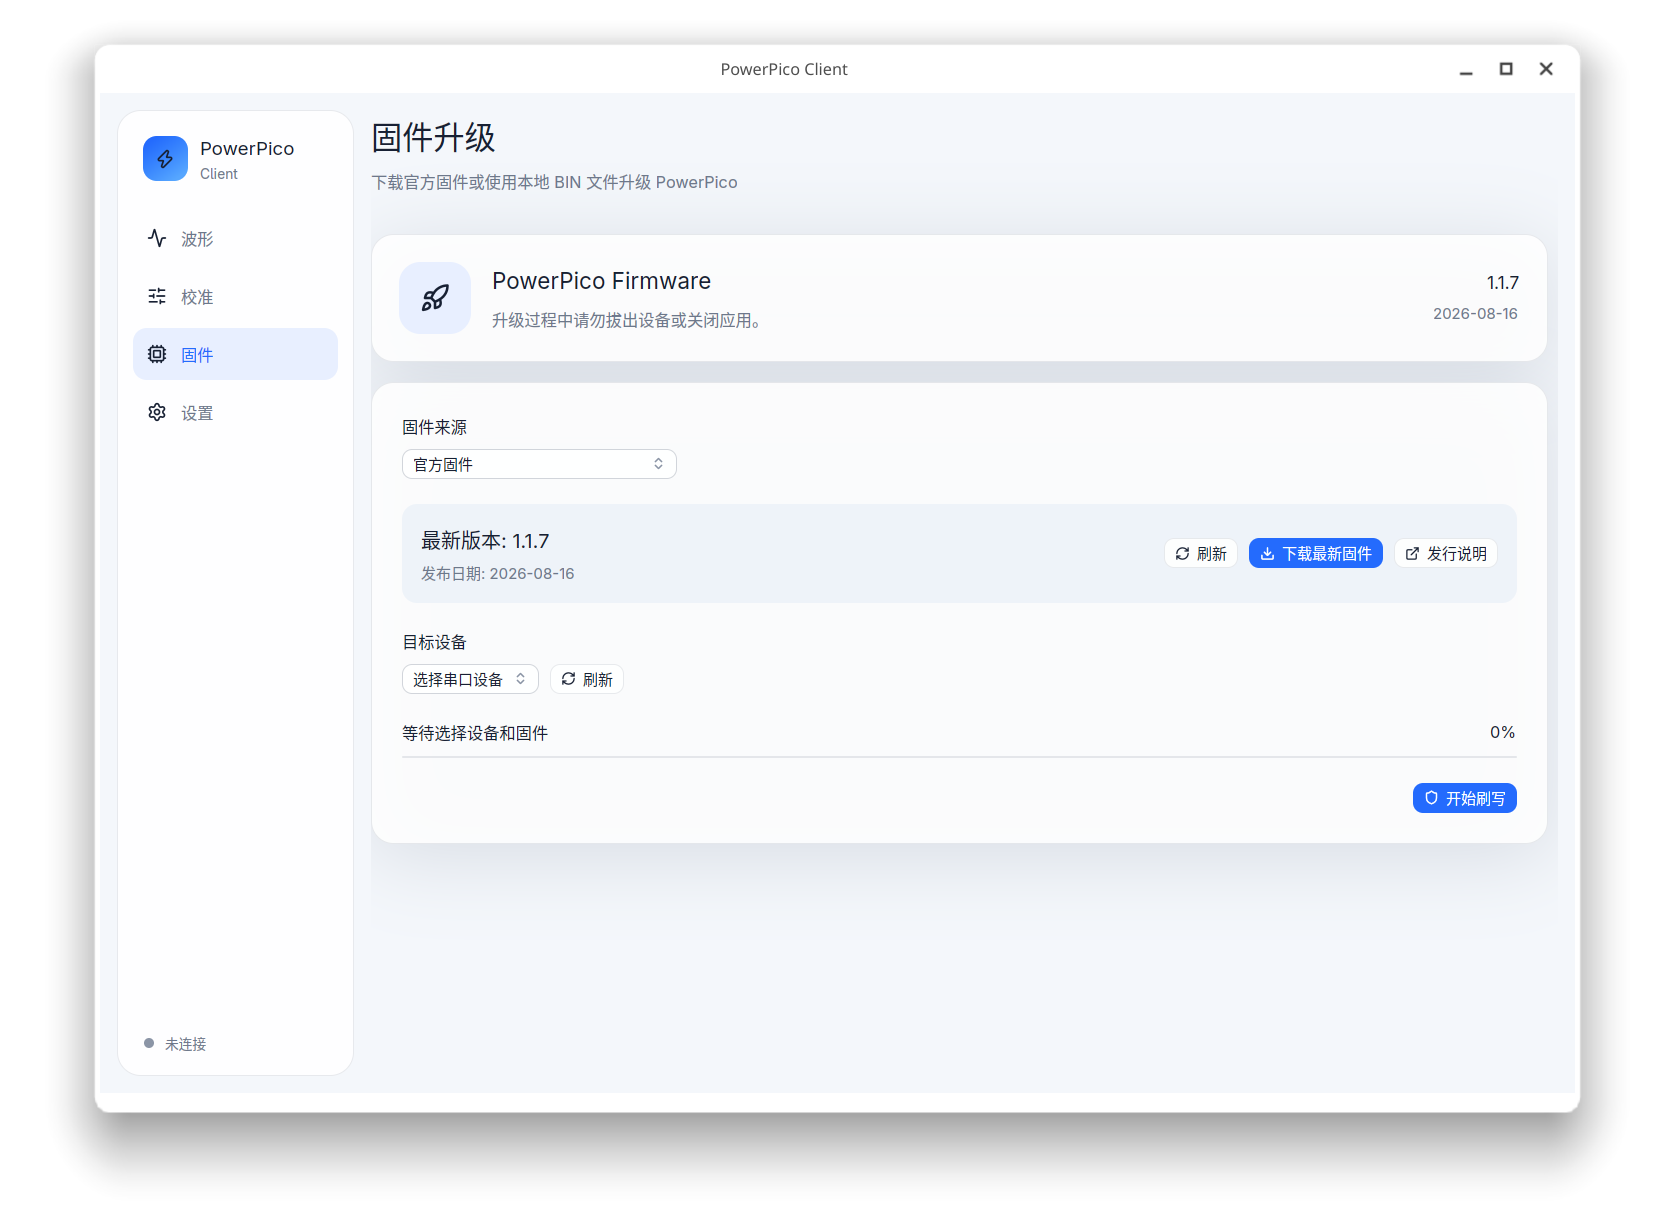
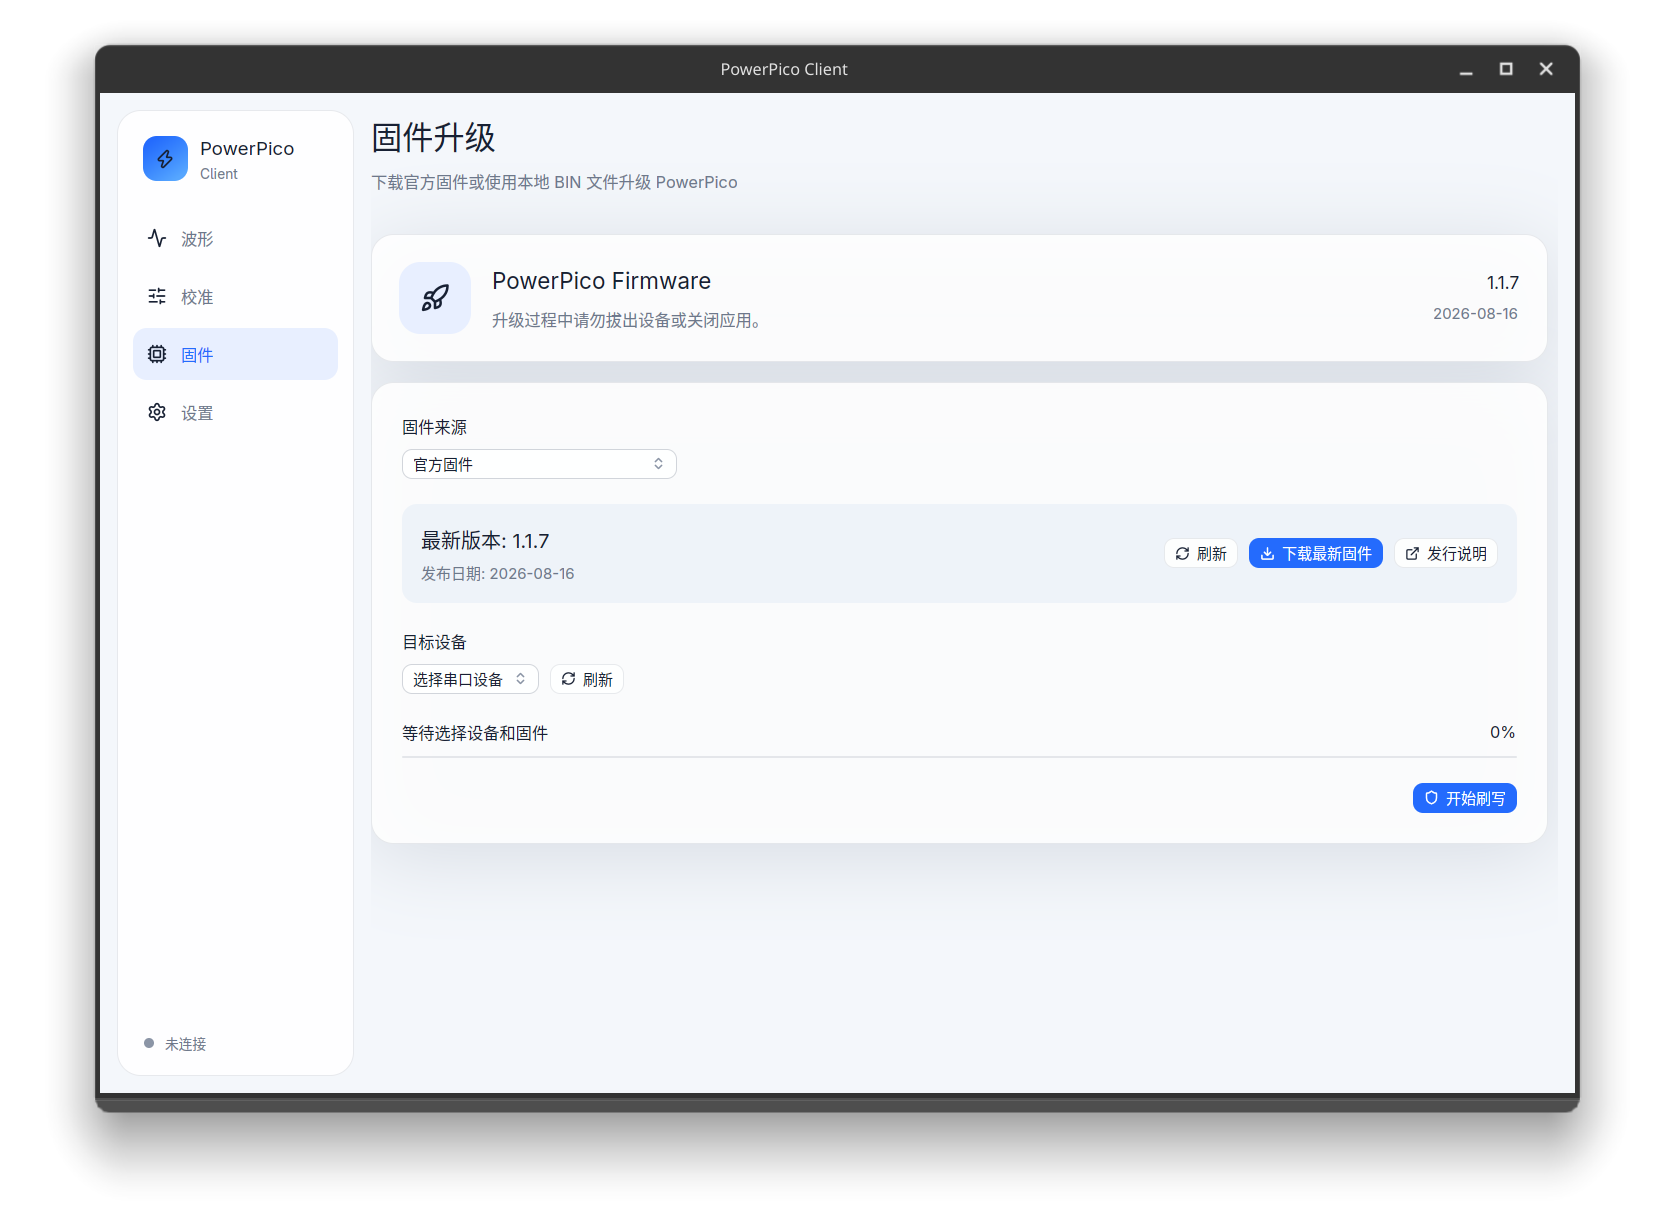
chore(release): prepare v0.4.0
- refresh the README screenshots with the light palette (waveform with live
  capture, calibration and firmware pages) and drop the archived Tauri-era
  captures
- remove the remaining Tauri 2 wording; the client is described as what it is
- the Linux column of the support matrix is fully checked now that firmware
  flashing finished real-device acceptance
- bump the workspace to 0.4.0 and write the release notes for the tag

Changed region(s): [[0.031, 0.0311, 0.9624, 0.9344]]

diff --git a/README.md b/README.md
@@ -2,7 +2,7 @@
   <h1 align="center">PowerPico Client</h1>
   <p align="center">面向 PowerPico 的跨平台数据采集、波形分析、校准与固件升级客户端</p>
 
-  <a href="https://github.com/No-Chicken/PowerPicoClient_rs/releases/latest"><img src="https://img.shields.io/badge/Version-0.3.0-blue" alt="Version 0.3.0"></a>
+  <a href="https://github.com/No-Chicken/PowerPicoClient_rs/releases/latest"><img src="https://img.shields.io/badge/Version-0.4.0-blue" alt="Version 0.4.0"></a>
   <a href="./LICENSE"><img src="https://img.shields.io/badge/License-GPLv3-green" alt="GPLv3"></a>
   <img src="https://img.shields.io/badge/GPUI-Rust-DEA584" alt="GPUI">
   <img src="https://img.shields.io/badge/UI-GPUI%20Kit%20%2B%20Ely-246bfd" alt="GPUI Kit and Ely">
@@ -17,7 +17,7 @@
 
 **PowerPico Client** 是使用 Rust 与 [GPUI](https://www.gpui.rs) 实现的 PowerPico 桌面客户端，界面由 [GPUI Kit](https://github.com/longbridge/gpui-kit) 与 [Ely GPUI Component](https://github.com/ELY-Open-Source/Ely-GPUI-Components) 构建，提供高速数据采集、实时波形、精确区间分析、记录导入导出、三档校准、固件升级、缓存管理和客户端更新检查能力。
 
-`GPUI` 分支已把 Tauri 2 + Svelte 前端替换为纯 Rust 实现，渲染走 GPU。迁移细节见 [从 Tauri 到 GPUI](./docs/gpui-migration.md)。
+整个客户端为纯 Rust 实现，GPU 渲染。架构与迁移记录见 [GPUI 迁移说明](./docs/gpui-migration.md)。
 
 <p align="center">
   <a href="https://github.com/No-Chicken/Power-Pico">Power-Pico 主项目</a> |
@@ -58,9 +58,9 @@
 
 请从 [GitHub Releases](https://github.com/No-Chicken/PowerPicoClient_rs/releases/latest) 下载对应平台的安装包，并使用同一 Release 中的 `SHA256SUMS` 校验文件完整性。
 
-> 现有 Release 仍由 Tauri 版本构建。GPUI 版本的流水线只在推送 `vX.Y.Z` tag 时运行，从下个版本起
-> 在同一台 Ubuntu runner 上产出 Linux x86_64 压缩包与 Windows x86_64 便携 ZIP（交叉编译）；
-> DEB/AppImage 与 DMG 仍在补齐，见 [构建与运行](./docs/build.md#打包与发布)。
+> 从 v0.4.0 起，流水线在同一台 Ubuntu runner 上构建两个产物：Linux x86_64 压缩包与 Windows x86_64
+> 便携 ZIP（交叉编译，C 运行时静态链接，免装 VC++ 运行库）；DEB/AppImage 与 DMG 仍在补齐，
+> 见 [构建与运行](./docs/build.md#打包与发布)。
 
 ---
 
@@ -72,12 +72,12 @@
 | :--- | :---: | :---: | :---: |
 | 数据采集与波形 | ✅ | ✅（Arch Linux 真机） | ✅ |
 | 记录导入导出 | ✅ | ✅ | ✅ |
-| 设备固件升级 | ✅ | ⚠ 待真机验收 | ✅ |
+| 设备固件升级 | ✅ | ✅（Arch Linux 真机） | ✅ |
 | 三档校准 | ✅ | ✅（Arch Linux 真机） | ✅ |
 | 缓存管理 | ✅ | ✅ | ✅ |
 | 客户端更新检查 | ⚠ 打开 Releases 页面 | ⚠ 打开 Releases 页面 | ⚠ 打开 Releases 页面 |
 
-旧版 Tauri 构建的验收记录仍可作为参考：[校准功能与测试记录](./docs/calibration-testing.md)。GPUI 版本已在 Arch Linux / KDE Wayland 的 AMD 显卡、macOS 与 Windows 上完成实时采集、区间分析、记录导入导出、校准串口释放与固件升级检查；逐项清单见 [Linux 测试清单](./docs/linux-testing.md)，其他平台只需替换串口节点与数据目录。
+GPUI 版本已在 Arch Linux / KDE Wayland 的 AMD 显卡、macOS 与 Windows 上完成实时采集、区间分析、记录导入导出、校准串口释放与固件升级检查；逐项清单见 [Linux 测试清单](./docs/linux-testing.md)，其他平台只需替换串口节点与数据目录。
 
 ---
 
@@ -134,7 +134,7 @@ npx skills add longbridge/gpui-kit
 
 ## 📂 数据与网络
 
-设置和官方固件保存在系统应用数据目录，临时采集记录保存在应用缓存目录，日志保存在平台日志目录（与旧版路径一致）。官方固件信息来自 PowerPico 固件服务，客户端更新信息来自本仓库 GitHub Releases。
+设置和官方固件保存在系统应用数据目录，临时采集记录保存在应用缓存目录，日志保存在平台日志目录。官方固件信息来自 PowerPico 固件服务，客户端更新信息来自本仓库 GitHub Releases。
 
 ---
 

diff --git a/.github/release-notes/v0.4.0.md b/.github/release-notes/v0.4.0.md
@@ -1,0 +1,30 @@
+# PowerPico Client v0.4.0
+
+GPUI 重构版的第一个跨平台发布。
+
+## 主要更新
+
+- 界面整体迁移到 GPUI：`powerpico-core` 负责设备、采集、存储、校准、固件与网络，`powerpico-app` 用 GPUI Kit 与 Ely 组件绘制全部四个页面，渲染走 GPU。
+- 保留旧版客户端的数据目录与记录格式：升级后原有设置、已下载的官方固件和 `.bin` 采集记录继续可用。
+- Linux 与 Windows 产物由同一台 Ubuntu runner 构建：Linux x86_64 压缩包，Windows x86_64 便携 ZIP（交叉编译）。
+- Windows 便携 ZIP 静态链接 C 运行时，不需要安装 VC++ 运行库；除系统自带的 `icuuc.dll`（Windows 10 1703+）与 `d3dcompiler_47.dll`（Windows 8.1+）外无其他动态依赖。
+- 工具链固定为 Rust 1.98.0（`rust-toolchain.toml`），workspace 升级到 edition 2024。
+- macOS、Linux、Windows 三个平台均完成真机验收：实时采集与区间分析、记录导入导出、三档校准与串口释放、固件升级。
+
+## 下载说明
+
+- `powerpico-client-v0.4.0-linux-x86_64.tar.gz`：Linux x86_64 便携版，解压后运行 `powerpico-client`，需要 Wayland/X11、Vulkan 驱动与 GTK3。
+- `powerpico-client-v0.4.0-windows-x86_64.zip`：Windows x86_64 便携版，解压后运行 `powerpico-client.exe`。
+- `SHA256SUMS`：发布资产的 SHA-256 校验值。
+
+DEB/AppImage 与 DMG 安装包仍在补齐；应用内更新尚未实现，“检查更新”会打开 Releases 页面。
+
+## 平台说明
+
+- Linux：串口访问需要加入 `uucp`（Arch）或 `dialout`（Debian/Ubuntu）组并重新登录；客户端不应以 root 运行。
+- Windows：刷写固件前请关闭可能占用串口的程序；首次启动会通过系统 `d3dcompiler_47.dll` 编译渲染着色器。
+- 串口互斥：采集、校准与固件刷写不能同时进行。
+
+## 完整性与许可证
+
+请使用同一 Release 的 `SHA256SUMS` 验证下载文件。本项目以 `GPL-3.0-only` 发布，压缩包内附许可证与第三方声明（`THIRD_PARTY_NOTICES.md`）。
